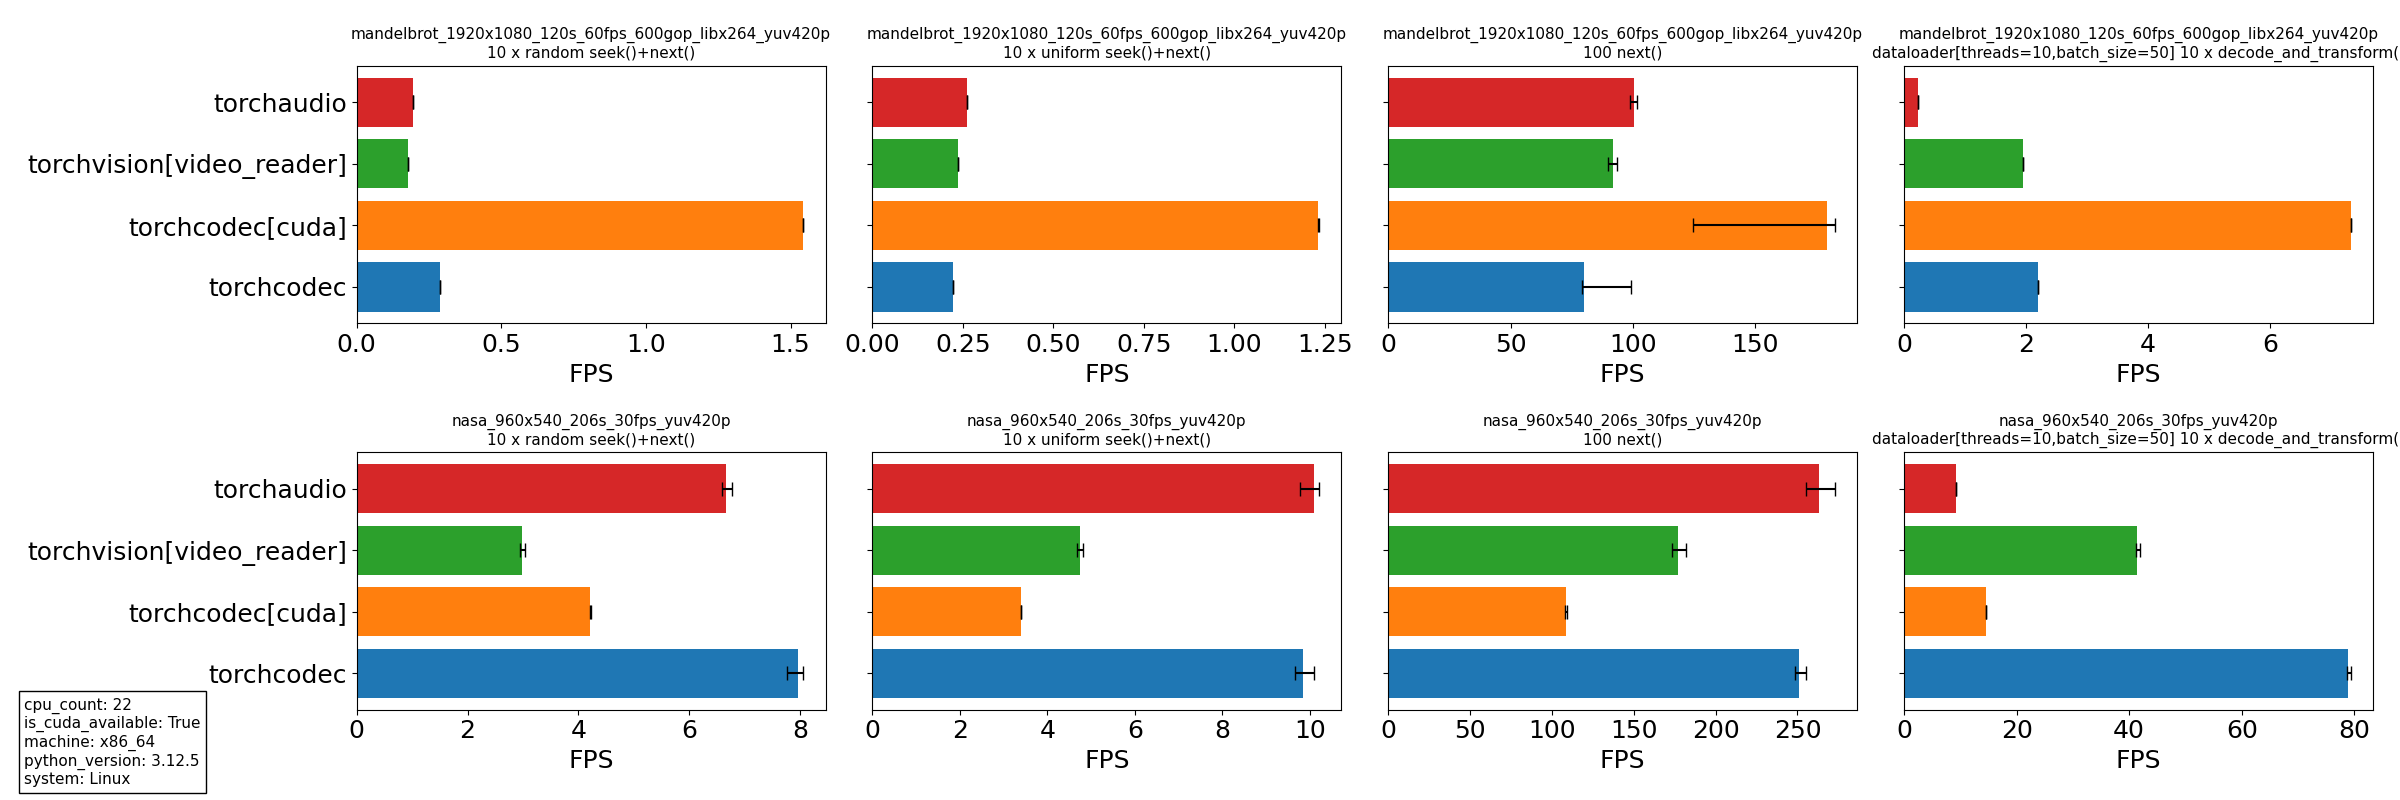
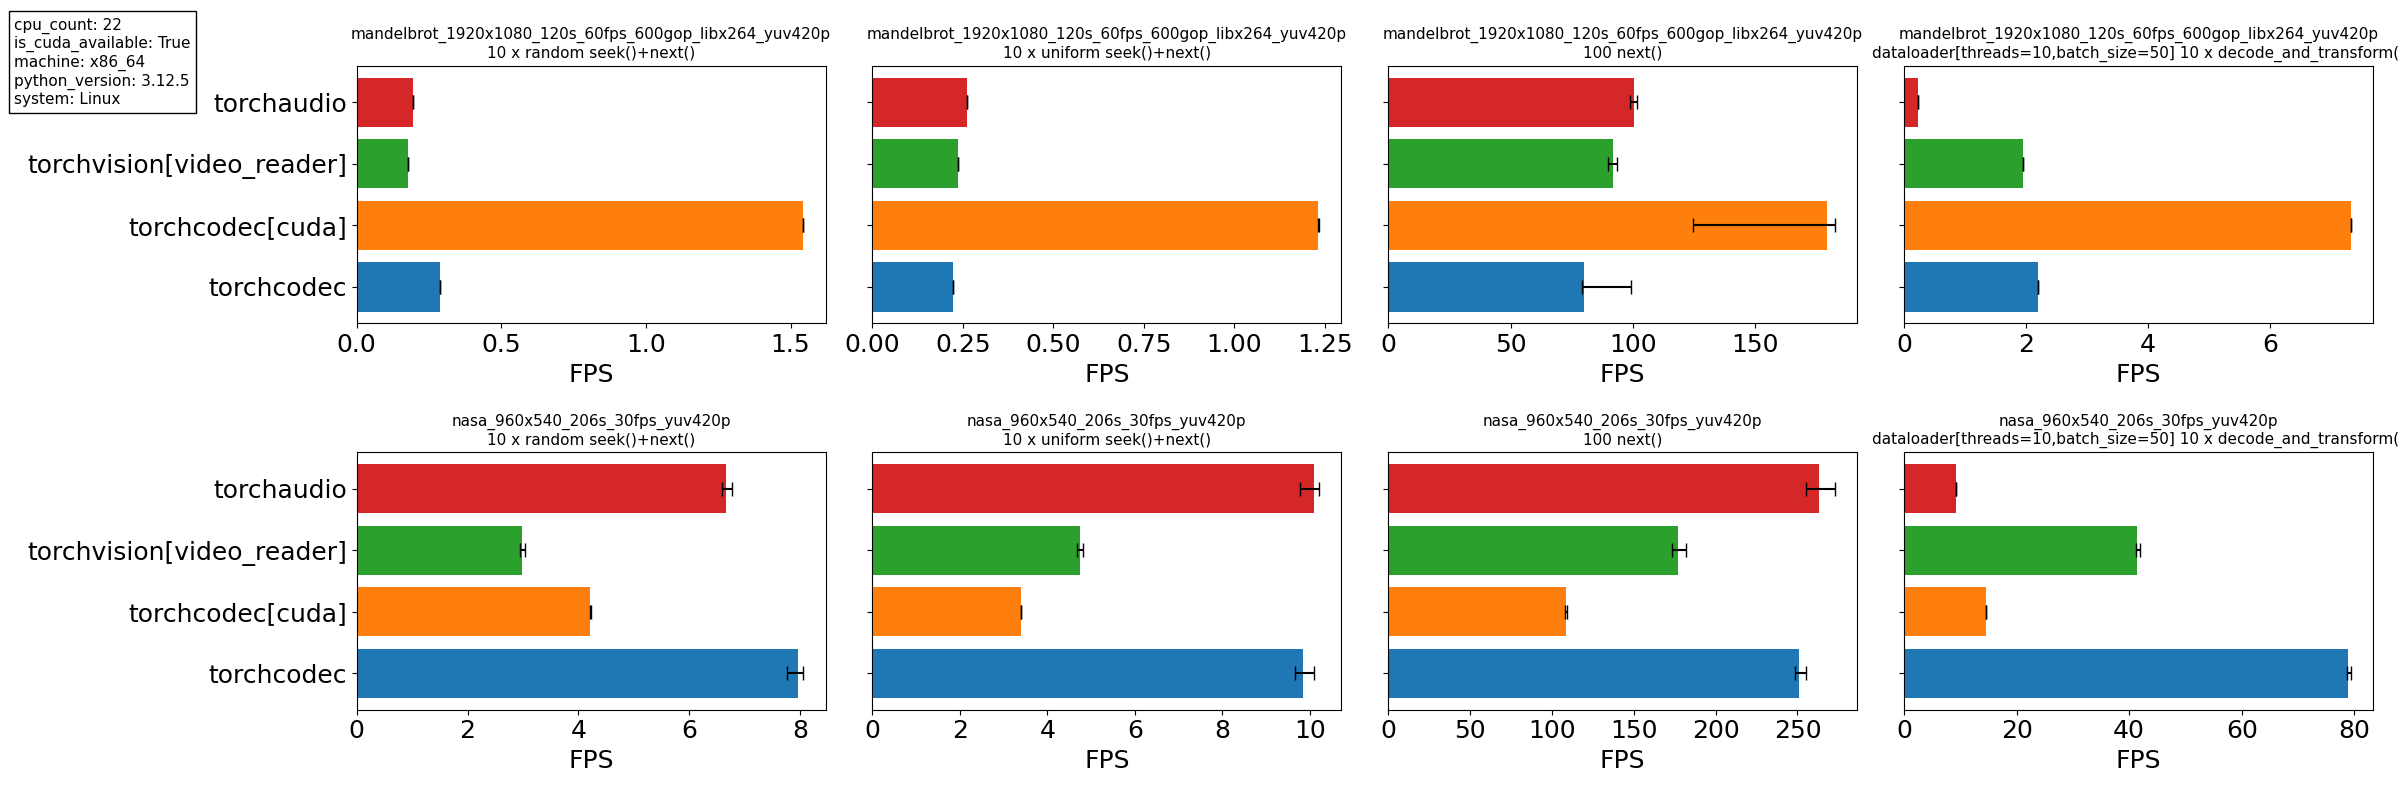
Put stamp in upper left corner

Changed region(s): [[0.0, 0.8438, 0.0938, 1.0], [0.0, 0.0, 0.0938, 0.1562]]

diff --git a/benchmarks/decoders/benchmark_decoders_library.py b/benchmarks/decoders/benchmark_decoders_library.py
@@ -519,8 +519,8 @@ def plot_data(json_data, plot_path):
             fig.delaxes(axes[row, col])
 
     plt.gcf().text(
-        0.01,
-        0.02,
+        0.006,
+        0.87,
         "\n".join([f"{k}: {v}" for k, v in json_data["system_metadata"].items()]),
         fontsize=11,
         bbox=dict(facecolor="white"),
